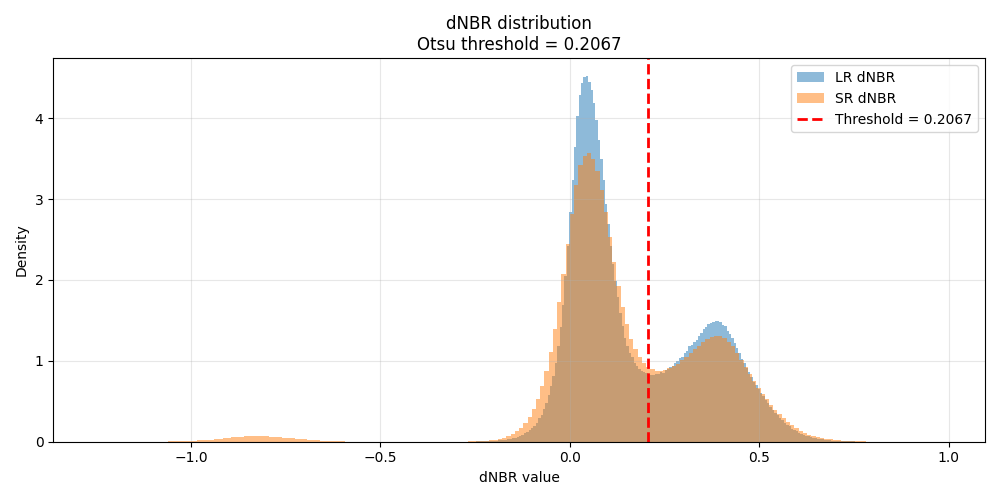
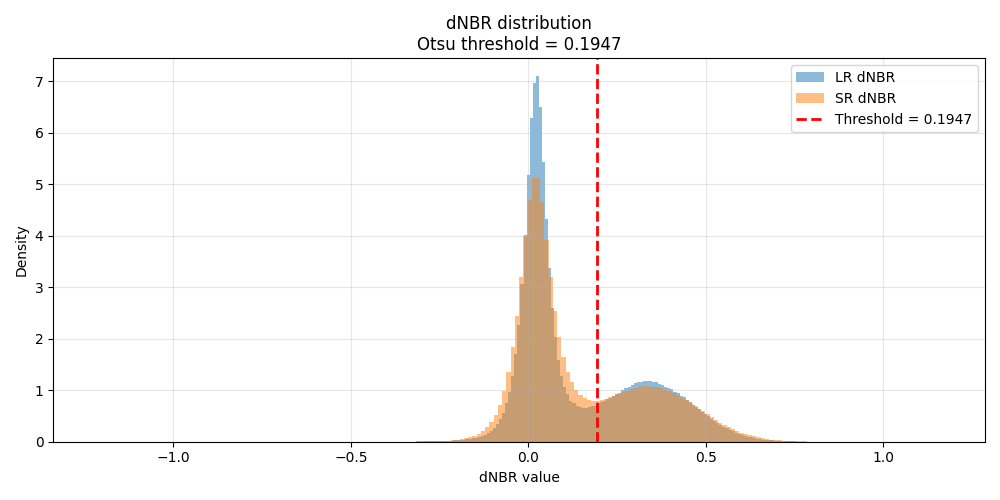
separate usecases

diff --git a/01b_after_create_SR_fire.py b/01b_after_create_SR_fire.py
@@ -1,0 +1,180 @@
+import mlstac
+import torch
+import cubo
+import matplotlib.pyplot as plt
+import sen2sr
+import rasterio
+import numpy as np
+
+# Set Device
+device = torch.device("cuda" if torch.cuda.is_available() else "cpu")
+assert device.type == "cuda", "LDSR-S2 can only run on GPU."
+
+
+# @title
+# Export to Disk
+def save_tensor_as_geotiff(tensor, attrs, out_path, super_resolved=False, sr_factor=4):
+    """
+    Save a PyTorch tensor as a georeferenced GeoTIFF using metadata in attrs.
+
+    Parameters:
+        tensor (torch.Tensor or np.ndarray): shape (bands, H, W), values in 0–1.
+        attrs (dict): Metadata from LR image (.attrs).
+        out_path (str): Output file path (.tif).
+        super_resolved (bool): If True, assumes image is SR upscaled by sr_factor.
+        sr_factor (int): SR upscale factor.
+    """
+    if hasattr(tensor, "cpu"):
+        tensor = tensor.cpu().numpy()
+
+    # Scale and clip
+    arr = (tensor * 10000).clip(0, 10000).astype(np.uint16)
+
+    # Original georef info
+    pixel_size = attrs["resolution"]
+    edge_size = attrs["edge_size"]
+    central_x = attrs["central_x"]
+    central_y = attrs["central_y"]
+    epsg = attrs["epsg"]
+
+    # Bounding box remains the same
+    total_extent = edge_size * pixel_size
+    half_extent = total_extent / 2
+    ul_x = central_x - half_extent
+    ul_y = central_y + half_extent
+
+    # If SR, update pixel size only (dimensions are already upsampled)
+    if super_resolved:
+        pixel_size = pixel_size / sr_factor
+
+    # Define geotransform
+    transform = rasterio.transform.from_origin(ul_x, ul_y, pixel_size, pixel_size)
+
+    # Save
+    with rasterio.open(
+        out_path,
+        "w",
+        driver="GTiff",
+        height=arr.shape[1],
+        width=arr.shape[2],
+        count=arr.shape[0],
+        dtype=arr.dtype,
+        crs=f"EPSG:{epsg}",
+        transform=transform,
+    ) as dst:
+        dst.write(arr)
+
+# @title
+# Plot LR Tensor
+def plot_lr(low_resolution):
+  fig, ax = plt.subplots(1, 2, figsize=(10, 5))
+  ax[0].imshow(torch.clamp(low_resolution[[2,1,0]]*3, 0, 1).permute(1,2,0).cpu())
+  ax[0].set_title('RGB - 10m')
+  ax[1].imshow(torch.clamp(low_resolution[[9, 7, 5]]*2, 0, 1).permute(1,2,0).cpu())
+  ax[1].set_title('SWIR/RE - 20m')
+  plt.savefig("lr_image.png")
+  plt.close()
+
+# @title
+# Plot LR/SR Comparison
+def plot_lr_sr(low_resolution,super_resolution):
+  fig, axes = plt.subplots(2, 2, figsize=(7, 7))
+  lr = low_resolution
+  sr = super_resolution
+
+  RGB = [2,1,0]
+  M20 = [9, 7, 5]
+
+  # Top left: RGB
+  axes[0, 0].imshow(torch.clamp(low_resolution[RGB,:, :] * 3.5, 0, 1).permute(1, 2, 0).cpu())
+  axes[0, 0].set_title("LR RGB")
+  axes[0, 0].axis('off')
+
+  # Top right: Alt bands
+  axes[0, 1].imshow(torch.clamp(low_resolution[M20, :, :] * 1.5, 0, 1).permute(1, 2, 0).cpu())
+  axes[0, 1].set_title("LR Bands 9,7,5")
+  axes[0, 1].axis('off')
+
+  # Bottom left: SR RGB
+  axes[1, 0].imshow(torch.clamp(super_resolution[RGB, :, :] * 3.5, 0, 1).permute(1, 2, 0).cpu())
+  axes[1, 0].set_title("SR RGB")
+  axes[1, 0].axis('off')
+
+  # Bottom right: SR Bands
+  axes[1, 1].imshow(torch.clamp(super_resolution[M20, :, :] * 1.5, 0, 1).permute(1, 2, 0).cpu())
+  axes[1, 1].set_title("SR Bands 9,7,5")
+  axes[1, 1].axis('off')
+
+  plt.tight_layout()
+  plt.savefig("lr_sr_comparison.png")
+
+
+LATITUDE = 34.07809695137825
+LONGITUDE = -118.59742822220389
+
+# Before
+#START_DATE = "2024-12-01"
+#END_DATE = "2025-01-05"
+
+# After
+START_DATE = "2025-01-30"
+END_DATE = "2025-02-15"
+
+# In the START_DATE & END_DATE range, there can be multiple images. This index is used to select one of them.
+IMAGE_INDEX = 0
+
+# Create a Sentinel-2 L2A data cube for a specific location and date range
+edge_size = 1750 # image edge size: 128 for 1 patch demo, 1000 for large scene demo
+da = cubo.create(
+    lat=LATITUDE,
+    lon=LONGITUDE,
+    collection="sentinel-2-l2a",
+    bands=["B02", "B03", "B04", "B05", "B06", "B07", "B08", "B8A", "B11", "B12"],
+    start_date=START_DATE,
+    end_date=END_DATE,
+    edge_size=edge_size,
+    resolution=10
+)
+
+
+# Extract tensor from Cubo
+# Prepare the data: Torch float32 - Normed to 0..1 from 0..10_000, bands stacked
+# LR will be of shape: 10, edge_size, edge_size
+original_s2_numpy = (da[IMAGE_INDEX].compute().to_numpy()).astype("float32")
+low_resolution = torch.from_numpy(original_s2_numpy).float().to(device)
+low_resolution = low_resolution / 10_000
+low_resolution = torch.nan_to_num(low_resolution, nan=0.0)
+
+# Have a look at LR image - RGB and 20m bands
+plot_lr(low_resolution)
+
+
+# GET MODEL
+# Downloading files and Weights - ca 1.45GB
+mlstac.download(
+  file="https://huggingface.co/tacofoundation/RS-SR-LTDF/resolve/main/main/mlm.json",
+  output_dir="model/LDSRS2-SEN2SR/")
+# Instanciate the compiled model
+model = mlstac.load("model/LDSRS2-SEN2SR/").compiled_model(device=device)
+model = model.to(device)
+model.sr_model.sr_model.model.linear_end
+
+# Run on 128x128 patch
+if edge_size == 128:
+  # Performing SR - LDSR-S2 on RGB-NIR, SEN2SR-SWIN on 20m bands
+  # input needs to be Bx10x128x128
+  super_resolution = model(low_resolution.unsqueeze(0)).squeeze(0)
+
+if edge_size > 128:
+  super_resolution = sen2sr.predict_large(
+      model=model,
+      X=low_resolution, # LR input tensor
+      overlap=16, # Overlap between Patches
+  )
+
+# PLot and compare LR - SR
+plot_lr_sr(low_resolution,super_resolution)
+
+# Save both Input and Output as georeferenced GeoTIFs
+save_tensor_as_geotiff(low_resolution, da[IMAGE_INDEX].attrs, out_path="data_fire/raster_data/lr_after.tif", super_resolved=False)
+save_tensor_as_geotiff(super_resolution, da[IMAGE_INDEX].attrs, out_path="data_fire/raster_data/sr_after.tif", super_resolved=True)

diff --git a/02_create_fire_mask.py b/02_create_fire_mask.py
@@ -4,9 +4,9 @@ import geopandas as gpd
 import numpy as np
 
 # --- INPUTS ---
-raster_path = "data/raster_data/lr_after.tif"
-vector_path = "data/vector_data/palisades_fire_extent.gpkg"
-out_path    = "data/raster_data/fire_mask.tif"
+raster_path = "data_fire/raster_data/lr_after.tif"
+vector_path = "data_fire/vector_data/palisades_fire_extent.gpkg"
+out_path    = "data_fire/raster_data/fire_mask.tif"
 
 # --- 1. Read raster (for shape, transform, CRS) ---
 with rasterio.open(raster_path) as src:

diff --git a/03_calc_dnbr.py b/03_calc_dnbr.py
@@ -105,5 +105,5 @@ def compute_dnbr_for_prefix(
 
 
 if __name__ == "__main__":
-    compute_dnbr_for_prefix("lr", in_dir="data/raster_data", out_dir="data/products")
-    compute_dnbr_for_prefix("sr", in_dir="data/raster_data", out_dir="data/products")
+    compute_dnbr_for_prefix("lr", in_dir="data_fire/raster_data", out_dir="data/products")
+    compute_dnbr_for_prefix("sr", in_dir="data_fire/raster_data", out_dir="data/products")

diff --git a/04_create_thresh_mask.py b/04_create_thresh_mask.py
@@ -76,8 +76,8 @@ def make_valid_land_mask(
 
 
 if __name__ == "__main__":
-    input_tif = "data/raster_data/lr_after.tif"
-    output_tif = "data/products/valid_land_mask.tif"
+    input_tif = "data_fire/raster_data/lr_after.tif"
+    output_tif = "data_fire/products/valid_land_mask.tif"
 
     valid_mask, _, thr = make_valid_land_mask(
         input_tif,

diff --git a/06_compute_metrics.py b/06_compute_metrics.py
@@ -166,8 +166,8 @@ def print_pretty_table(metrics):
 
 
 if __name__ == "__main__":
-    base_prods = "data/products/"
-    base_data = "data/raster_data/"
+    base_prods = "data_fire/products/"
+    base_data = "data_fire/raster_data/"
 
     m = compute_metrics(
         lr_dnbr_path=base_prods + "lr_dnbr.tif",

diff --git a/05_histograms_and_dnbr_thresh.py b/05_histograms_and_dnbr_thresh.py
@@ -167,7 +167,7 @@ def write_detections(
     
 
 if __name__ == "__main__":
-    base = "data/products/"
+    base = "data_fire/products/"
 
     lr_dnbr = os.path.join(base, "lr_dnbr.tif")
     sr_dnbr = os.path.join(base, "sr_dnbr.tif")